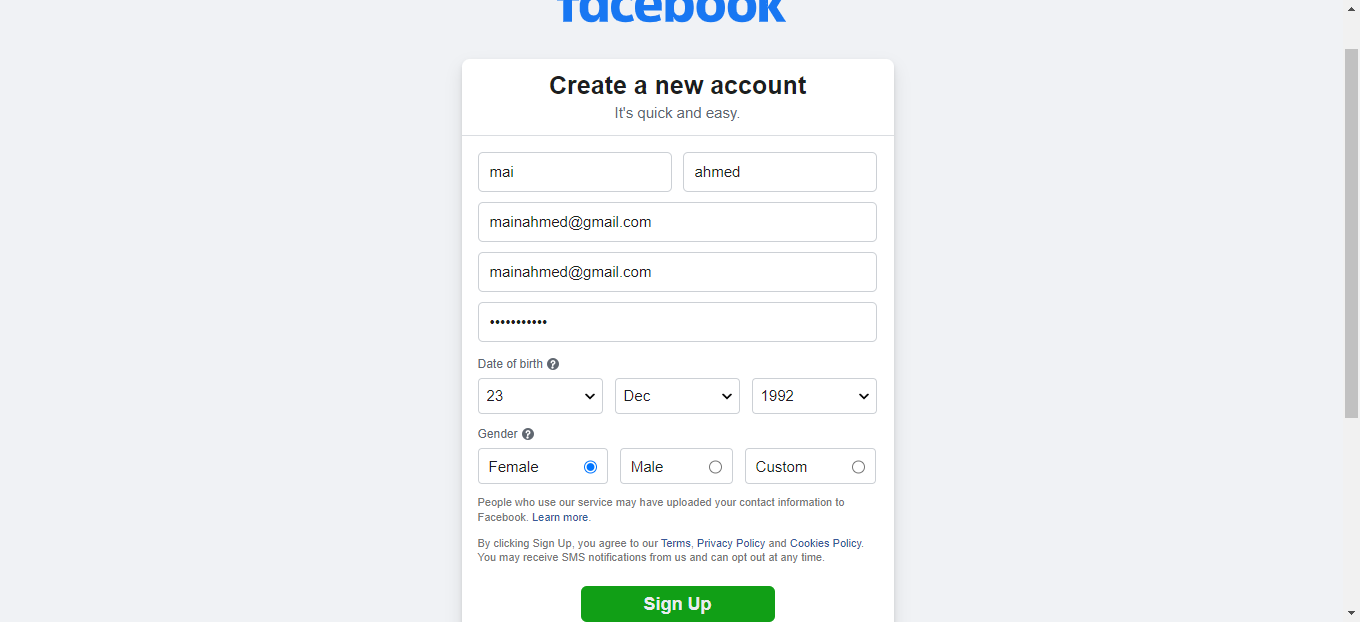
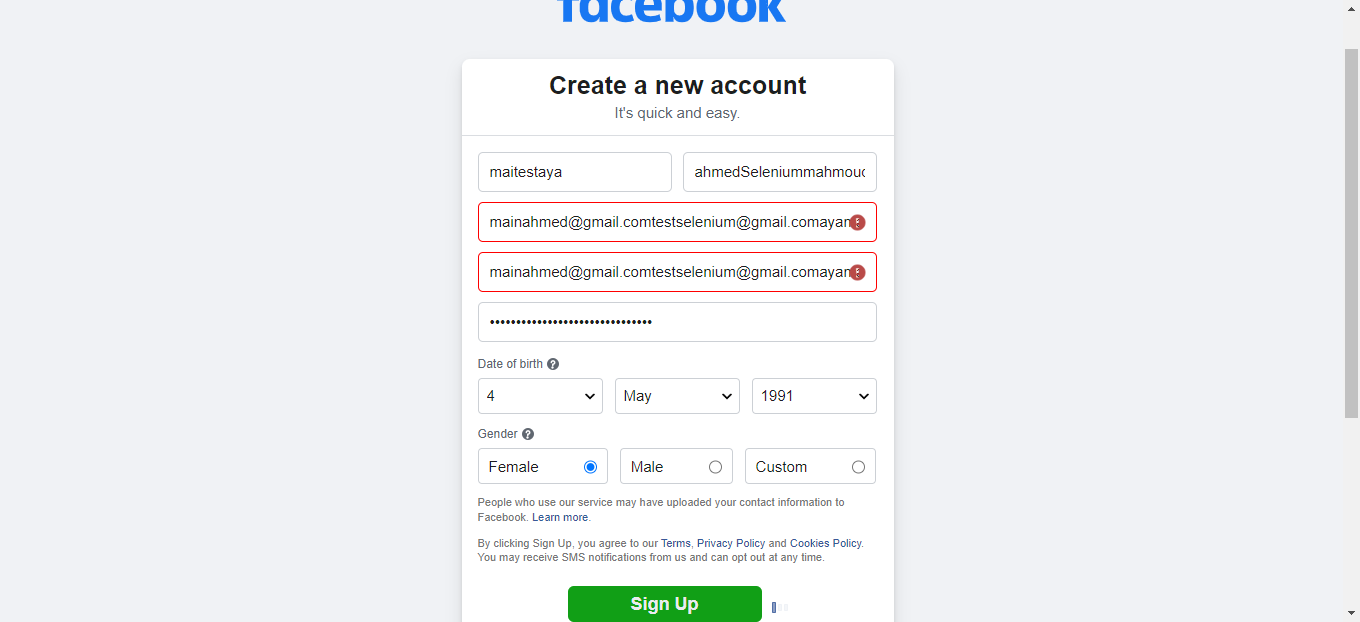
Edit 2

diff --git a/src/test/java/TC_REG/TC_Registration.java b/src/test/java/TC_REG/TC_Registration.java
@@ -3,7 +3,6 @@ package TC_REG;
 import org.openqa.selenium.support.PageFactory;
 import org.testng.Assert;
 import org.testng.annotations.Test;
-
 import pages.BasePageREG;
 import pages.Registration;
 
@@ -13,6 +12,7 @@ public class TC_Registration extends BasePageREG {
     @Test
     public void regTest1(){
         /*This test case To verify Registration functionality with all valid data. regTest1*/
+
         Registration regFB = PageFactory.initElements(driver, Registration.class);
         regFB.fnamedata("mai");
         regFB.lnamedata("ahmed");
@@ -25,25 +25,30 @@ public class TC_Registration extends BasePageREG {
         regFB.genderfemale();
         regFB.signupbutton();
     }
+
     @Test
     public void regTest2(){
         /*This test case To verify Registration functionality with all invalid data. regTest1*/
-     Registration regFB = PageFactory.initElements(driver , pages.Registration.class);
-     regFB.fnamedata("test");
-     regFB.lnamedata("Selenium");
-     regFB.emaildata("testselenium@gmail.com");
-     regFB.confemaildata("testselenium@gmail.com");
-     regFB.passworddata("test123selenium");
-     regFB.selday("3");
-     regFB.selmonth("1");
-     regFB.selyear("1995");
-     regFB.genderfemale();
-     regFB.signupbutton();
-     Assert.assertTrue(true , String.valueOf(regFB.humanErrorMsg()));
+
+        Registration regFB = PageFactory.initElements(driver , pages.Registration.class);
+        regFB.fnamedata("test");
+        regFB.lnamedata("Selenium");
+        regFB.emaildata("testselenium@gmail.com");
+        regFB.confemaildata("testselenium@gmail.com");
+        regFB.passworddata("test123selenium");
+        regFB.selday("3");
+        regFB.selmonth("1");
+        regFB.selyear("1995");
+        regFB.genderfemale();
+        regFB.signupbutton();
+        Assert.assertTrue(true , String.valueOf(regFB.humanErrorMsg()));
+
     }
+
     @Test
     public void regTest3(){
-        /*This test case To verify Registration functionality with less 6 characters in Password field. regTest1*/
+       /*This test case To verify Registration functionality with less 6 characters in Password field. regTest1*/
+
         Registration regFB = PageFactory.initElements(driver , pages.Registration.class);
         regFB.fnamedata("aya");
         regFB.lnamedata("mahmoud");

diff --git a/src/test/java/TC_LOGIN/TC_Login.java b/src/test/java/TC_LOGIN/TC_Login.java
@@ -3,7 +3,6 @@ package TC_LOGIN;
 import org.junit.Assert;
 import org.openqa.selenium.support.PageFactory;
 import org.testng.annotations.Test;
-
 import pages.BasePage;
 import pages.Login;
 
@@ -30,7 +29,7 @@ public class TC_Login extends BasePage {
     logFB.passworddata("test123@456");
     logFB.loginButton();
     logFB.clickPost();
-    logFB.createpostdata("Selenium Webdriver");
+    logFB.createpostdata("test12");
     logFB.clickpostbutton();
 
   }
@@ -38,7 +37,7 @@ public class TC_Login extends BasePage {
 
   @Test
   public void loginTest3(){ //Done
-    /*This test case To verify Login functionality to Add someone and Logout. loginTest3*/
+    /*This test case To verify Login functionality to Add someone. loginTest3*/
 
     Login logFB = PageFactory.initElements(driver, Login.class);
     logFB.emaildata("rowida.abasirii@outlook.com");
@@ -52,7 +51,7 @@ public class TC_Login extends BasePage {
   }
 
   @Test
-  public void loginTest4() { //Never
+  public void loginTest4() { //Done
     /*This test case To verify Logout functionality. loginTest4*/
 
     Login logFB = PageFactory.initElements(driver, Login.class);
